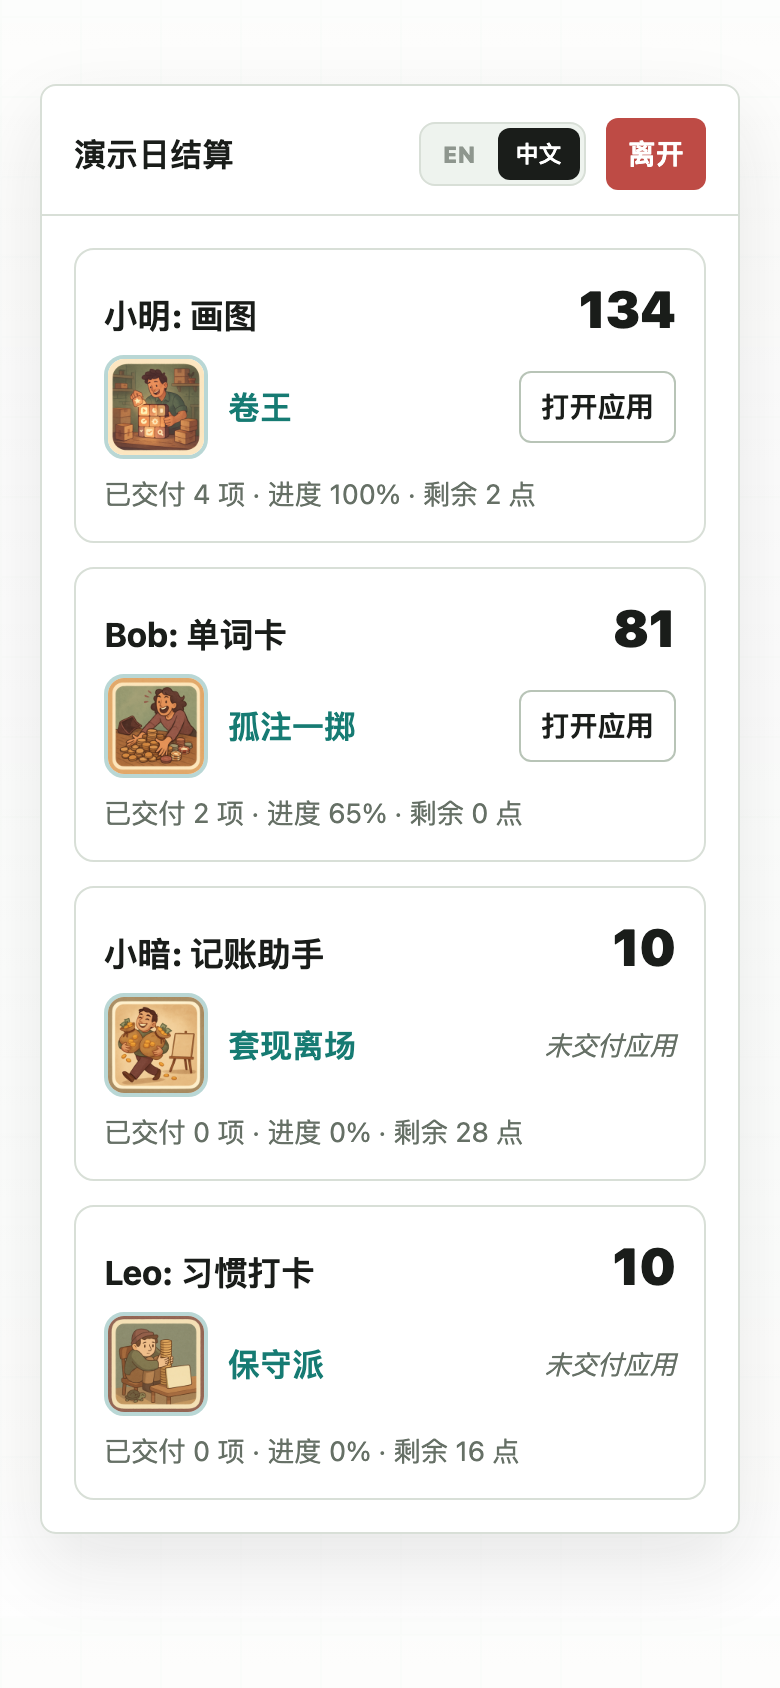
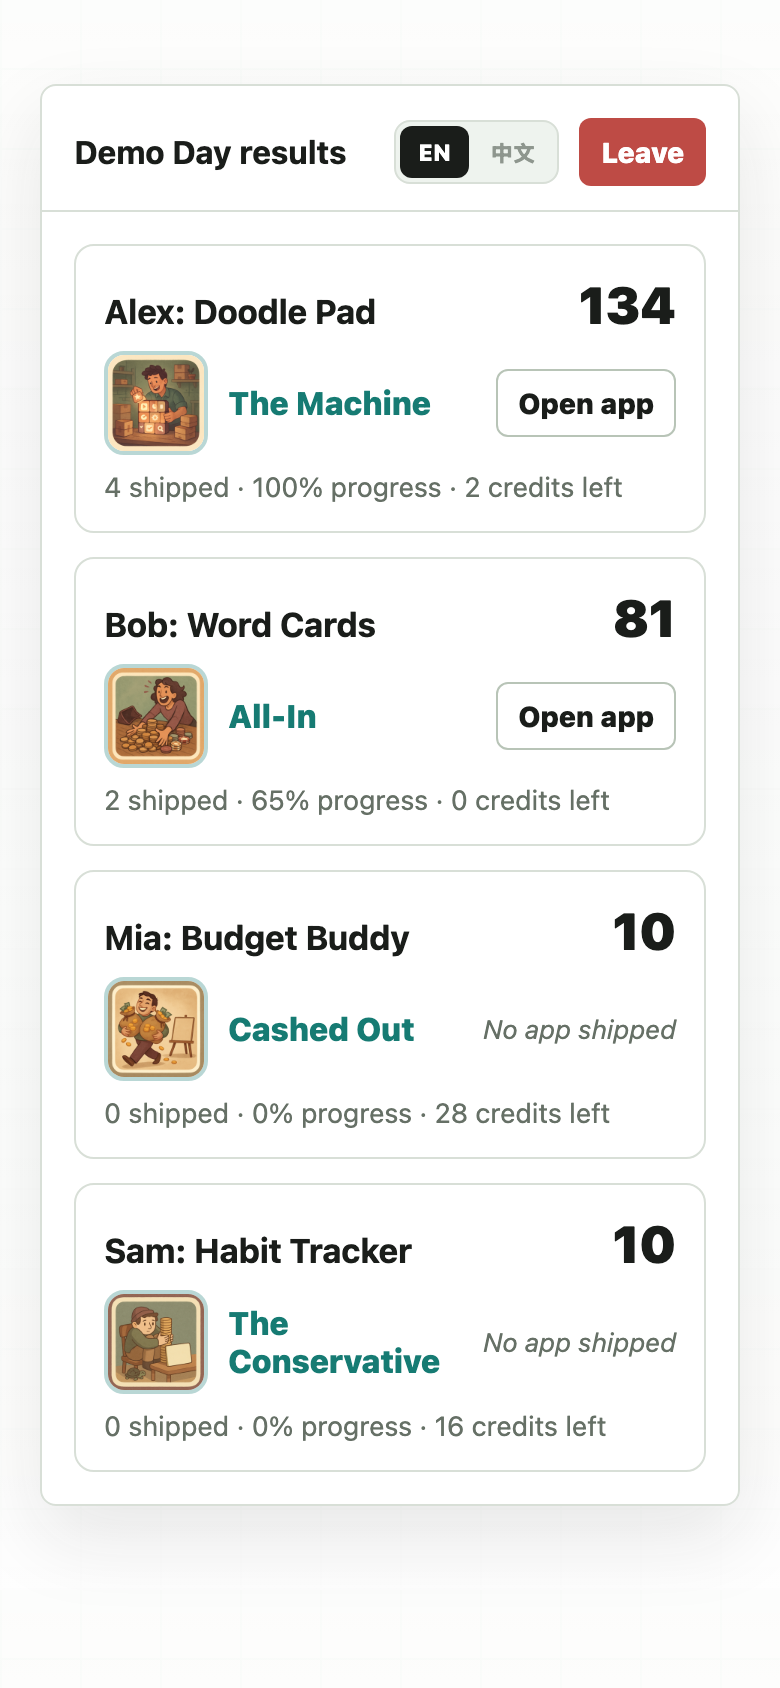
README: fix round count to 7 and use language-matched screenshots
The game is 7 rounds, not 5 (both READMEs). The English README was also showing
Chinese screenshots — generate English versions of the board, built app, and
Demo Day for README.md, and point README.zh.md at .zh.png Chinese versions.

Changed region(s): [[0.0923, 0.0616, 0.9231, 0.8934]]

diff --git a/README.zh.md b/README.zh.md
@@ -10,7 +10,7 @@
 
 可以**联机**玩——一人开房，其他人用 5 位房间号在各自的手机上加入、各看各的手牌——也可以在同一块屏幕上**轮流传着玩**。
 
-![Roundtable 牌桌](docs/screenshot.png)
+![Roundtable 牌桌](docs/screenshot.zh.png)
 
 ## 亮点
 
@@ -25,7 +25,7 @@
 
 任何一个「交付了功能」的回合，都会把你的产品编译成一个**自包含的手机 App**——一个单文件 HTML，作为真正可用的应用运行（画布、表单、本地存储），外观仿原生移动界面，并自动适配 **iOS 或 Android**。房主会实时托管每位玩家的 App，所以你只需点**打开应用**即可使用或分享，无需下载。
 
-![构建出的产品作为手机 App 运行](docs/app-preview.png)
+![构建出的产品作为手机 App 运行](docs/app-preview.zh.png)
 
 ## 怎么玩
 
@@ -33,7 +33,7 @@
 2. 在大厅里房主开始游戏——每位玩家发到 5 张私密手牌，且**必有至少一张「新功能」**。
 3. 轮到你时，打出一张牌（点击放大，再点**出牌**），需要目标的卡牌请选择目标。
 4. 如果这一回合你提交了一个功能，结束回合会花费一些点数并在后台**构建你的 App**。只打策略牌、或不出牌的回合不会触发构建。
-5. 五个回合后进入**演示日**：为所有人结算分数、颁发创始人称号，并托管每个做好的 App。
+5. 七个回合后进入**演示日**：为所有人结算分数、颁发创始人称号，并托管每个做好的 App。
 
 ## 牌库
 
@@ -73,7 +73,7 @@
 | **保守派** (The Conservative) | 什么都没交付，守着开局预算 |
 | **套现离场** (Cashed Out) | 什么都没交付，却**赚到**超过了开局预算 |
 
-![带创始人称号的演示日结算](docs/demo-day.png)
+![带创始人称号的演示日结算](docs/demo-day.zh.png)
 
 ### 货币：AI 点数
 

diff --git a/README.md b/README.md
@@ -33,7 +33,7 @@ A turn on which you ship a feature compiles your product into a **self-contained
 2. In the lobby the host starts the game — each player is dealt a private hand of five cards, always including at least one **New Feature**.
 3. On your turn, play one card (tap to enlarge it, then **Play card**), choosing a target where the card needs one.
 4. Ending a turn on which you committed a feature spends some credits and **builds your app** in the background. A turn with only a strategy card — or no card — doesn't build.
-5. After five rounds, **Demo Day** scores everyone, awards each player a founder archetype, and serves every finished app.
+5. After seven rounds, **Demo Day** scores everyone, awards each player a founder archetype, and serves every finished app.
 
 ## The deck
 